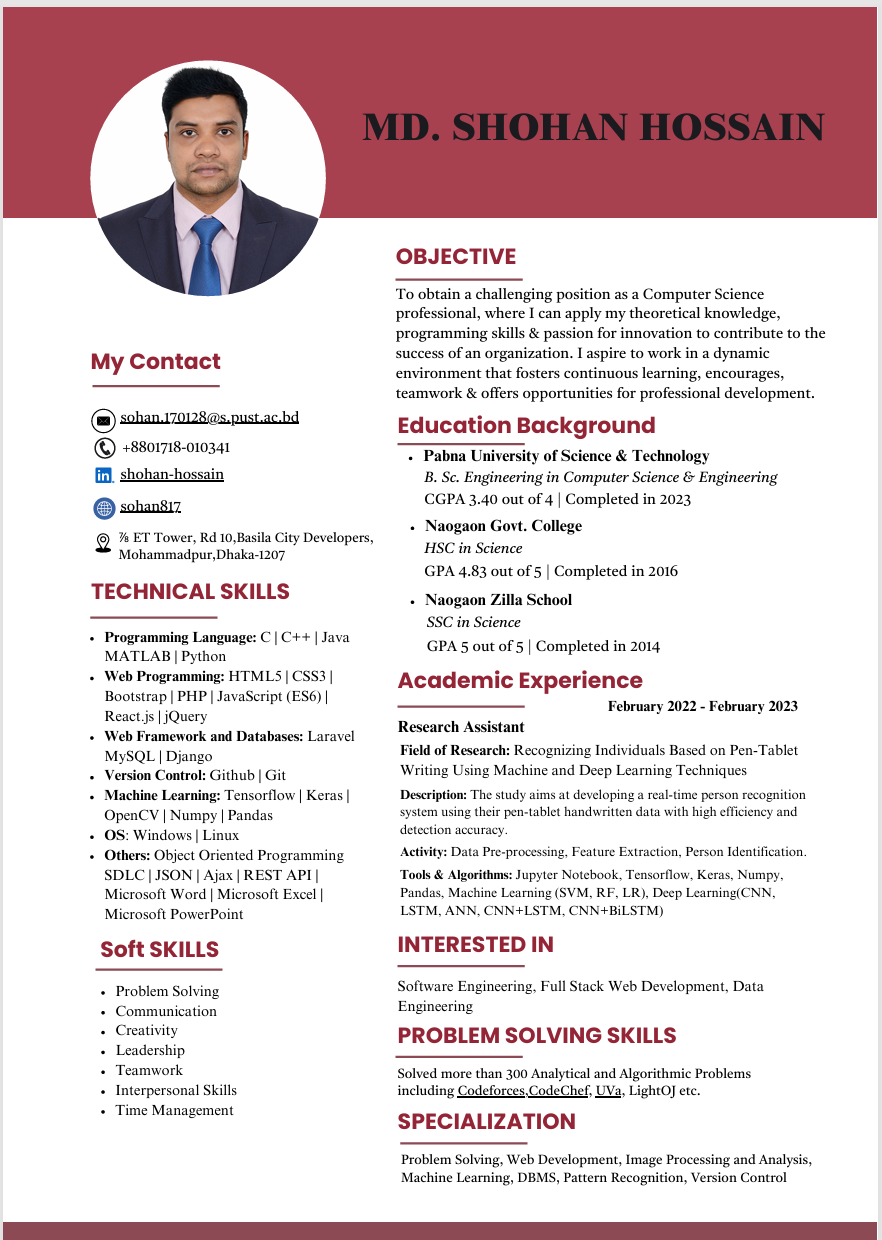
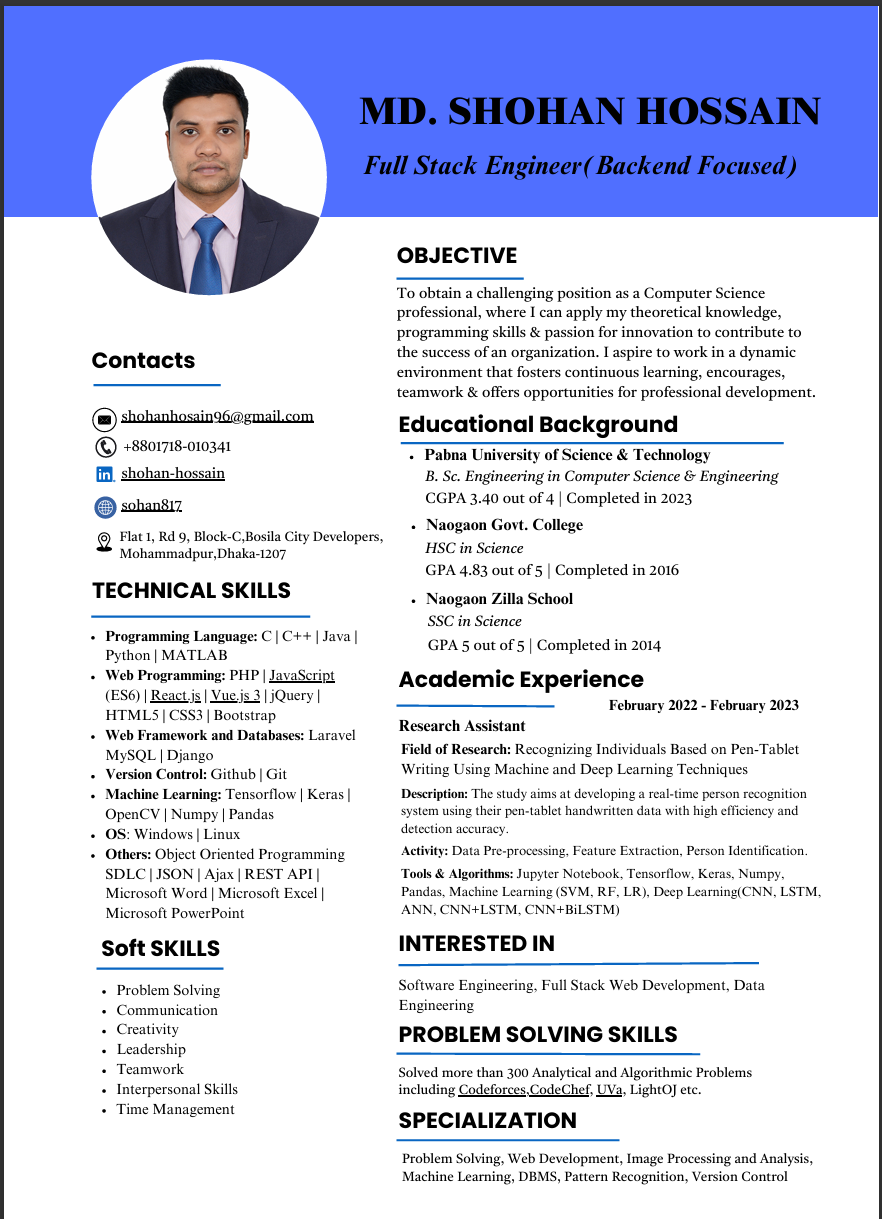
Project and bio updated

diff --git a/index.html b/index.html
@@ -136,8 +136,8 @@
                   <li>
                     <i class="icofont-rounded-right"></i>
                     <strong>Email:</strong>
-                    <a href="mailto: sohan.170128@s.pust.ac.bd"
-                      >sohan.170128@s.pust.ac.bd</a
+                    <a href="mailto: shohanhosain96@gmail.com"
+                      >shohanhosain96@gmail.com</a
                     >
                   </li>
                 </ul>
@@ -203,6 +203,19 @@
 
             <div class="progress">
               <span class="skill">JavaScript <i class="val">85%</i></span>
+              <div class="progress-bar-wrap">
+                <div
+                  class="progress-bar"
+                  role="progressbar"
+                  aria-valuenow="80"
+                  aria-valuemin="0"
+                  aria-valuemax="100"
+                ></div>
+              </div>
+            </div>
+
+            <div class="progress">
+              <span class="skill">Vue.js 3 <i class="val">85%</i></span>
               <div class="progress-bar-wrap">
                 <div
                   class="progress-bar"
@@ -524,6 +537,25 @@
               </button>
             </div>
           </div>
+          <div class="col-lg-4 col-md-6 d-flex align-items-stretch mt-4 mt-md-0" >
+            <div class="icon-box">
+              <div class="icon"><i class="icofont-shopping-cart"></i></div>
+              <h4><a href="">AMAZON SHOP</a></h4>
+              <p>
+                Developed a responsive Amazon-inspired e
+                commerce website using HTML, CSS, and
+                JavaScript, featuring product browsing, search,
+                cart management, and dynamic UI interactions.
+              </p>
+              <button type="button" class="github-button btn mt-4">
+                <a
+                  href="https://sohan817.github.io/JavaScript_Amazon_Project/"
+                  >URL</a
+                >
+              </button>
+            </div>
+          </div>
+
           <div class="col-lg-4 col-md-6 d-flex align-items-stretch mt-4 mt-md-0">
             <div class="icon-box">
               <div class="icon"><i class="icofont-text-height"></i></div>
@@ -546,9 +578,7 @@
               </button>
             </div>
           </div>
-          <div
-            class="col-lg-4 col-md-6 d-flex align-items-stretch mt-4 mt-md-0"
-           >
+          <div class="col-lg-4 col-md-6 d-flex align-items-stretch mt-4 mt-md-0">
           <div class="icon-box">
             <div class="icon"><i class="icofont-news"></i></div>
             <h4><a href="">NewsMonkey</a></h4>
@@ -581,9 +611,7 @@
             </button>
          </div>
       </div>
-              <div
-          class="col-lg-4 col-md-6 d-flex align-items-stretch mt-4 mt-md-0"
-        >
+      <div class="col-lg-4 col-md-6 d-flex align-items-stretch mt-4 mt-md-0">
           <div class="icon-box">
             <div class="icon"><i class="icofont-ui-weather"></i></div>
               <h4><a href="">Weather App</a></h4>
@@ -597,6 +625,40 @@
               </a>
             </button>
          </div>
+      </div>
+      <div class="col-lg-4 col-md-6 d-flex align-items-stretch mt-4 mt-md-0">
+          <div class="icon-box">
+            <div class="icon"><i class="icofont-news"></i></div>
+            <h4><a href="">OneClickShop</a></h4>
+            <p>
+              This Laravel e-commerce project is PHP based, where buyers may
+              purchase any kind of things, such as clothing, electronics, or
+              accessories, and sellers can publish, manage, and sell any kind of commodity.
+            </p>
+            <button type="button" class="github-button btn mt-4">
+              <a
+                href="https://github.com/Sohan817/E_Commerce_Website-Laravel"
+                >Github</a
+              >
+            </button>
+          </div>
+      </div>
+      <div class="col-lg-4 col-md-6 d-flex align-items-stretch mt-4 mt-md-0">
+          <div class="icon-box">
+            <div class="icon"><i class="icofont-news"></i></div>
+            <h4><a href="">OneClickShop</a></h4>
+            <p>
+              This Laravel e-commerce project is PHP based, where buyers may
+              purchase any kind of things, such as clothing, electronics, or
+              accessories, and sellers can publish, manage, and sell any kind of commodity.
+            </p>
+            <button type="button" class="github-button btn mt-4">
+              <a
+                href="https://github.com/Sohan817/E_Commerce_Website-Laravel"
+                >Github</a
+              >
+            </button>
+          </div>
       </div>
     </div>
     </section>
@@ -614,7 +676,7 @@
             <div class="info-box">
               <i class="bx bx-map"></i>
               <h3>Address</h3>
-              <p>5/20, Salimullah Road, Mohammadpur, Dhaka-1207.</p>
+              <p>Flat-1,Block-C,Rd-9,Bosila City Developers, Mohammadpur, Dhaka-1207.</p>
             </div>
           </div>
 
